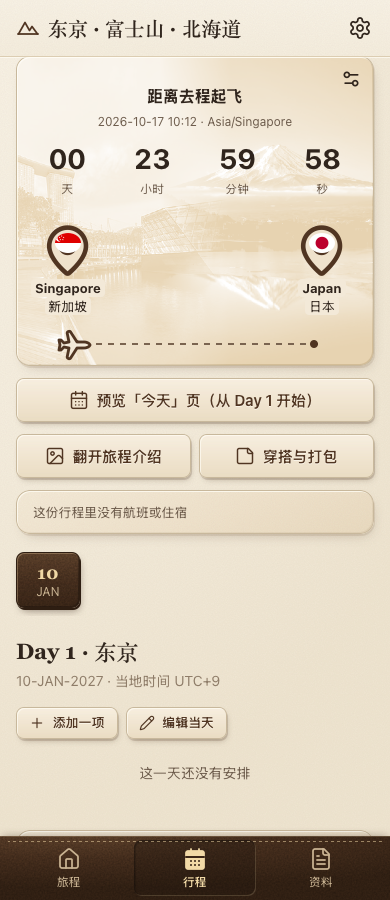
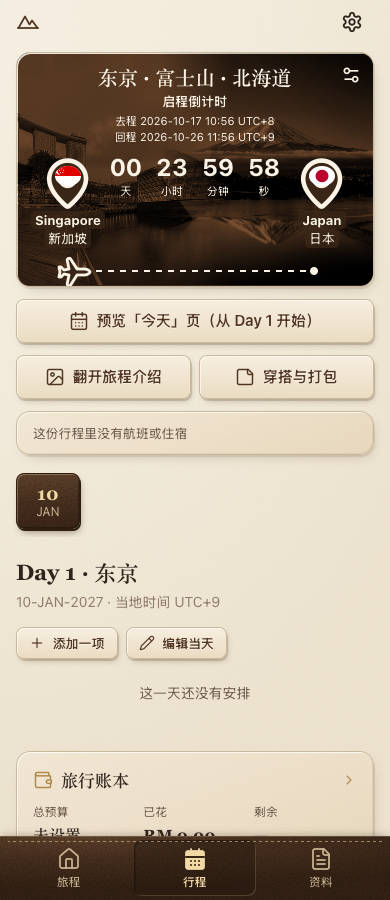
Use a compact dark flight card with trip hierarchy and sidebar controls

diff --git a/src/components/FlightCountdown.module.css b/src/components/FlightCountdown.module.css
@@ -1,38 +1,41 @@
 .module { margin: 0 0 var(--space-2); width: 100%; min-width: 0; }
-.card { position: relative; isolation: isolate; min-height: 310px; overflow: hidden; border-radius: var(--radius-md); border: 1px solid var(--color-border); background: var(--color-surface-subtle); box-shadow: var(--shadow-card); color: var(--color-text); }
+.card { position: relative; isolation: isolate; min-height: 232.5px; overflow: hidden; border-radius: var(--radius-md); border: 1px solid var(--color-border); background: var(--color-leather-dark); box-shadow: var(--shadow-card); color: var(--color-on-photo); }
 .scenery { position: absolute; inset: 0; z-index: -1; pointer-events: none; filter: grayscale(1) contrast(1.2); opacity: 1; mix-blend-mode: overlay; }
 .leftImage, .rightImage { position: absolute; top: 0; bottom: 0; width: 60%; overflow: hidden; }
 .leftImage { left: 0; z-index: 1; -webkit-mask-image: linear-gradient(to right, black 66.666667%, transparent); mask-image: linear-gradient(to right, black 66.666667%, transparent); }
 .rightImage { right: 0; }
 .landmark { width: 100%; height: 100%; object-fit: cover; opacity: 1; }
-.information { position: relative; margin: 0 auto; padding: 28px 12px 122px; text-align: center; width: 100%; background: transparent; }
-.heading { font-size: var(--fs-section); font-weight: 700; margin: 0 24px 6px; }
-.date { font-size: var(--fs-caption); color: var(--color-text-2); margin: 0 12px 12px; overflow-wrap: anywhere; }
-.numbers { display: grid; grid-template-columns: repeat(4, 1fr); max-width: 390px; margin: 0 auto; gap: 8px; }
+.information { position: relative; margin: 0 auto; padding: 12px 12px 40px; min-height: 232.5px; text-align: center; width: 100%; background: transparent; }
+.tripTitle { font-family: var(--font-serif); font-size: var(--fs-title); font-weight: 700; line-height: 1.2; margin: 0 28px 4px; overflow-wrap: anywhere; }
+.heading { font-size: var(--fs-small); font-weight: 600; line-height: 1.3; margin: 0 24px 4px; }
+.date { display: flex; flex-direction: column; justify-content: center; gap: 2px; font-size: 11px; font-weight: 400; line-height: 1.25; color: var(--color-on-photo); margin: 0 0 10px; }
+.date > span { white-space: nowrap; }.date small { font-size: inherit; }.date .dateSeparator { display: none; }
+.emptyDate { font-size: var(--fs-caption); margin: 8px 0; color: var(--color-on-photo); }
+.numbers { display: grid; grid-template-columns: repeat(4, minmax(0, 1fr)); max-width: max(130px, calc(100% - 152px)); margin: 0 auto; gap: 4px; }
 .numbers > div { display: flex; flex-direction: column; }
-.numbers strong { font-size: clamp(28px, 5vw, 48px); line-height: 1.15; font-variant-numeric: tabular-nums; font-weight: 700; }
-.numbers span { font-size: var(--fs-caption); margin-top: 6px; color: var(--color-text-2); }
-.pin { position: absolute; bottom: 46px; display: flex; flex-direction: column; align-items: center; min-width: 92px; min-height: 80px; padding: 4px; border: 0; background: transparent; color: var(--color-text); cursor: pointer; font: inherit; border-radius: var(--radius-sm); }
-.pin strong, .pin > span:last-child { background: var(--color-surface-subtle); padding: 0 4px; border-radius: 4px; font-size: var(--fs-small); }
-.pinIcon { position: relative; height: 55.2px; color: var(--color-primary); }
+.numbers strong { font-size: clamp(22px, 6.2vw, 30px); line-height: 1.1; font-variant-numeric: tabular-nums; font-weight: 700; }
+.numbers span { font-size: 11px; margin-top: 3px; color: var(--color-on-photo); }
+.pin { position: absolute; bottom: 34px; display: flex; flex-direction: column; align-items: center; min-width: 92px; min-height: 80px; padding: 4px; border: 0; background: transparent; color: var(--color-on-photo); cursor: pointer; font: inherit; border-radius: var(--radius-sm); }
+.pin strong, .pin > span:last-child { background: color-mix(in srgb, var(--color-leather-dark) 70%, transparent); padding: 0 4px; border-radius: 4px; font-size: var(--fs-small); }
+.pinIcon { position: relative; height: 55.2px; color: var(--color-on-photo); }
 .pinIcon img { position: absolute; top: 9.6px; left: 14.4px; width: 26.4px; height: 20.4px; border-radius: 50%; object-fit: cover; }
 .origin { left: 5px; }.destination { right: 5px; }
-.route { position: absolute; left: 55px; right: 55px; z-index: 3; pointer-events: none; bottom: 20px; border-top: 2px dashed var(--color-icon); height: 1px; }
-.route::before, .route::after { content: ''; position: absolute; top: -5px; width: 8px; height: 8px; border-radius: 50%; background: var(--color-primary); }
+.route { position: absolute; left: 55px; right: 55px; z-index: 3; pointer-events: none; bottom: 14px; border-top: 2px dashed var(--color-on-photo); height: 1px; }
+.route::before, .route::after { content: ''; position: absolute; top: -5px; width: 8px; height: 8px; border-radius: 50%; background: var(--color-on-photo); }
 .route::before { left: 0; }.route::after { right: 0; }
-.aircraft { position: absolute; left: 0; bottom: 0; width: 100%; height: 34px; color: var(--color-primary); pointer-events: none; }
-.aircraft svg { display: block; overflow: visible; transform: translate(-50%, 17px) rotate(45deg); fill: var(--color-surface-subtle); }
+.aircraft { position: absolute; left: 0; bottom: 0; width: 100%; height: 34px; color: var(--color-on-photo); pointer-events: none; }
+.aircraft svg { display: block; overflow: visible; transform: translate(-50%, 17px) rotate(45deg); fill: var(--color-leather-dark); }
 .trail { position: absolute; top: -2px; height: 2px; width: 100%; background: var(--color-accent); transform-origin: left; transform: scaleX(0); }
 .flying .aircraft { animation: flight 4.6s linear both; }
 .flying .trail { animation: trail 4.6s linear both; }
 .arrived .aircraft { transform: translateX(100%); opacity: 1; }.arrived .trail { transform: scaleX(1); }
 @keyframes flight { from { transform: translate(0, 0); } 40% { transform: translate(40%, -12px); } to { transform: translate(100%, 0); } }
 @keyframes trail { to { transform: scaleX(1); } }
-.edit { position: absolute; z-index: 2; right: 0; top: 0; width: 44px; height: 44px; display: grid; place-items: center; border: 0; border-radius: var(--radius-sm); background: transparent; color: var(--color-text); cursor: pointer; }
-.edit:hover, .pin:hover { background: var(--color-primary-soft); }
+.edit { position: absolute; z-index: 2; right: 0; top: 0; width: 44px; height: 44px; display: grid; place-items: center; border: 0; border-radius: var(--radius-sm); background: transparent; color: var(--color-on-photo); cursor: pointer; }
+.edit:hover, .pin:hover { background: color-mix(in srgb, var(--color-on-photo) 12%, transparent); }
 .edit:focus-visible, .pin:focus-visible, .countryGrid button:focus-visible { outline: 2px solid var(--color-primary); outline-offset: -2px; }
 .notice { font-size: var(--fs-caption); color: var(--color-text-2); min-height: 0; margin: 4px 0 0; }.notice:empty { display: none; }
-.transitionNote { margin-top: 24px; font-size: var(--fs-small); }
+.transitionNote { margin-top: 8px; font-size: var(--fs-small); }
 .form { display: flex; flex-direction: column; gap: 14px; color: var(--color-text); }
 .form p { font-size: var(--fs-small); color: var(--color-text-2); }
 .form label { display: flex; flex-direction: column; gap: 6px; font-size: var(--fs-body); }
@@ -42,8 +45,11 @@
 .countryGrid button { display: flex; gap: 10px; align-items: center; min-height: 56px; padding: 10px; color: var(--color-text); background: var(--color-surface-subtle); border: 1px solid var(--color-border); border-radius: var(--radius-sm); cursor: pointer; text-align: left; }
 .countryGrid img { width: 30px; height: 20px; object-fit: cover; }.countryGrid small { display: block; }.countryGrid button[aria-pressed=true] { background: var(--color-primary-soft); }.form .error { color: var(--color-warning-ink); }
 @media (min-width: 768px) {
-  .card { min-height: 230px; }.information { width: 60%; min-height: 230px; padding: 24px 12px 46px; background: transparent; }
-  .leftImage, .rightImage { width: 60%; }.pin { bottom: 50px; }.origin { left: 20px; }.destination { right: 20px; }.route { left: 70px; right: 70px; bottom: 24px; }.numbers strong { font-size: 46px; }
+  .card { min-height: 172.5px; }.information { width: 68%; min-height: 172.5px; padding: 10px 12px 28px; }
+  .tripTitle { font-size: 22px; }.heading { font-size: 14px; margin-bottom: 4px; }
+  .date { flex-direction: row; flex-wrap: wrap; gap: 2px 6px; font-size: 12px; margin-bottom: 6px; }.date .dateSeparator { display: inline; }
+  .numbers { max-width: 350px; gap: 8px; }.numbers strong { font-size: 38px; }
+  .pin { bottom: 32px; }.origin { left: 20px; }.destination { right: 20px; }.route { left: 70px; right: 70px; bottom: 14px; }
 }
 @media (prefers-reduced-motion: reduce) { .flying .aircraft, .flying .trail { animation: none; }.flying .aircraft { transform: translateX(100%); } }
 
@@ -53,8 +59,20 @@
 .settingsMeta { display: flex; flex-wrap: wrap; gap: 12px; font-size: var(--fs-caption); color: var(--color-text-2); }
 .photos { display: grid; grid-template-columns: repeat(2, minmax(0, 1fr)); gap: 12px; }
 .photoSlot { min-width: 0; display: flex; flex-direction: column; gap: 8px; }
-.photoPreview { height: 90px; overflow: hidden; isolation: isolate; border-radius: var(--radius-sm); background: var(--color-surface-subtle); }
+.photoPreview { height: 90px; overflow: hidden; isolation: isolate; border-radius: var(--radius-sm); background: var(--color-leather-dark); }
 .photoPreview img { width: 100%; height: 100%; object-fit: cover; filter: grayscale(1) contrast(1.2); mix-blend-mode: overlay; }
 .form .upload { position: relative; min-height: 44px; display: grid; place-items: center; padding: 8px; border: 1px solid var(--color-border); border-radius: var(--radius-sm); cursor: pointer; background: var(--color-surface-subtle); text-align: center; }
 .upload input { position: absolute; inset: 0; opacity: 0; cursor: pointer; }
 .upload:focus-within { outline: 2px solid var(--color-primary); outline-offset: 2px; }
+
+.tripControls { display: flex; align-items: center; justify-content: space-between; gap: 8px; min-height: 40px; }
+.tripIdentity { display: flex; align-items: center; gap: 8px; min-width: 0; }.tripIdentity strong { display: none; }
+.tripSettings { min-width: 44px; height: 44px; display: grid; place-items: center; border-radius: var(--radius-sm); color: var(--color-text); }
+.tripSettings:focus-visible { outline: 2px solid currentColor; outline-offset: -2px; }
+@media (min-width: 1024px) {
+  .tripControls { align-items: flex-start; }.tripIdentity { align-items: flex-start; --color-primary: var(--color-on-leather-hi); color: var(--color-on-leather); }
+  .tripIdentity strong { display: block; font-size: var(--fs-small); line-height: 1.5; padding-top: 8px; overflow-wrap: anywhere; }.tripIdentity > svg { flex-shrink: 0; margin-top: 8px; }
+  .tripSettings { color: var(--color-on-leather-hi); }
+}
+
+.information > button { color: var(--color-on-photo); background: var(--color-leather); border-color: var(--color-on-photo); }

diff --git a/src/components/FlightCountdown.tsx b/src/components/FlightCountdown.tsx
@@ -1,9 +1,11 @@
 import { memo, useEffect, useRef, useState } from 'react';
-import { Plane, MapPin, Settings2 } from 'lucide-react';
+import { Plane, MapPin, Settings, Settings2 } from 'lucide-react';
 import { useBlobUrl, type TripData } from '../hooks/data';
 import type { FlightCountdownSettings } from '../domain/types';
 import { asset, countries, countryOf, crossedDeparture, flightPhase, fromLocal, localTime, validFlightSettings, validZone } from '../domain/flightCountdown';
 import { remaining } from '../domain/countdown';
+import { utcOffsetLabel } from '../domain/format';
+import { Logo } from './Icon';
 import { flightBackgroundKey, setFlightBackground, setFlightCountdown } from '../db/repo';
 import { prepareFile, TooLargeError } from '../lib/files';
 import { Sheet } from './Layout';
@@ -17,7 +19,7 @@ const Scenery = memo(function Scenery({ origin, destination, left, right }: { or
   return <div className={s.scenery} aria-hidden="true">{photographs}</div>;
 });
 
-function Clock({ value, demo = false }: { value: FlightCountdownSettings; demo?: boolean }) {
+function Clock({ value, tripTitle, demo = false }: { value: FlightCountdownSettings; tripTitle: string; demo?: boolean }) {
   const [now, setNow] = useState(Date.now);
   const previous = useRef(now);
   const transition = useRef<number>();
@@ -41,13 +43,17 @@ function Clock({ value, demo = false }: { value: FlightCountdownSettings; demo?:
   }, [value.departureAt]);
   const phase = flightPhase(value, now, transition.current);
   const at = phase === 'before' ? value.departureAt : value.returnAt;
-  const tz = phase === 'before' ? value.departureTz : value.returnTz;
   const r = remaining(at, now)!;
-  const title = phase === 'before' ? '距离去程起飞' : phase === 'flying' ? `正在飞往${countryOf(value.destination)!.zh}` : phase === 'vacation' ? '开始玩乐！距离回程起飞' : '旅程已结束';
+  const title = phase === 'before' ? '启程倒计时' : phase === 'flying' ? `正在飞往${countryOf(value.destination)!.zh}` : phase === 'vacation' ? '返程倒计时' : '旅程已结束';
   return <>
     <div className={s.information} data-flight-phase={phase}>
-      <p className={s.heading} aria-live="polite">{demo ? `演示 · ${title}` : title}</p>
-      <p className={s.date}>{phase === 'flying' ? '即将开启你的旅程' : `${localTime(at, tz).replace('T', ' ')} · ${tz}`}</p>
+      <h1 className={s.tripTitle}>{tripTitle}</h1>
+      <h2 className={s.heading} aria-live="polite">{demo ? `演示 · ${title}` : title}</h2>
+      <h3 className={s.date}>
+        <span>去程 <time dateTime={new Date(value.departureAt).toISOString()}>{localTime(value.departureAt, value.departureTz).replace('T', ' ')}</time> <small>{utcOffsetLabel(value.departureTz, new Date(value.departureAt))}</small></span>
+        <span className={s.dateSeparator} aria-hidden="true">—</span>
+        <span>回程 <time dateTime={new Date(value.returnAt).toISOString()}>{localTime(value.returnAt, value.returnTz).replace('T', ' ')}</time> <small>{utcOffsetLabel(value.returnTz, new Date(value.returnAt))}</small></span>
+      </h3>
       {phase !== 'flying' && phase !== 'ended' && <div className={s.numbers} role="timer" aria-label={`${r.days}天 ${r.hours}小时 ${r.minutes}分钟 ${r.seconds}秒`}>
         {[[r.days, '天'], [r.hours, '小时'], [r.minutes, '分钟'], [r.seconds, '秒']].map(([v, unit]) => <div key={unit}><strong>{String(v).padStart(2, '0')}</strong><span>{unit}</span></div>)}
       </div>}
@@ -145,13 +151,13 @@ export default function FlightCountdown({ td, dateRange, offline }: { td: TripDa
     <div className={s.card}>
       <Scenery origin={origin} destination={destination} left={leftPhoto} right={rightPhoto} />
       <button className={s.edit} aria-label="设置航班时间" onClick={openSettings}><Settings2 size={20} /></button>
-      {demo || value ? <Clock key={JSON.stringify(demo ?? value)} value={(demo ?? value)!} demo={!!demo} /> : <div className={s.information}><p className={s.heading}>下一段旅程，从这里开始</p><p className={s.date}>设置去程与回程起飞时间，开启准确倒数</p><Button variant="outline" onClick={openSettings}>设置航班时间</Button></div>}
+      {demo || value ? <Clock key={JSON.stringify(demo ?? value)} value={(demo ?? value)!} tripTitle={td.trip.title} demo={!!demo} /> : <div className={s.information}><h1 className={s.tripTitle}>{td.trip.title}</h1><h2 className={s.heading}>启程倒计时</h2><p className={s.emptyDate}>设置去程与回程起飞时间，开启准确倒数</p><Button variant="outline" onClick={openSettings}>设置航班时间</Button></div>}
       {!demo && !value && <div className={s.route} aria-hidden="true"><span className={s.aircraft}><Plane size={34} /></span></div>}
       {(['origin','destination'] as const).map((side,i) => {
         const code = i ? destination : origin;
         const c = countryOf(code);
         return <button key={side} className={`${s.pin} ${i ? s.destination : s.origin}`} aria-label={i ? '修改目的地国家' : '修改出发国家'} onClick={() => {setDemo(undefined);setError('');setPick(side);}}>
-          <span className={s.pinIcon}><MapPin size={55.2} fill="var(--color-surface)" />{c && <img src={asset(code,'flag')} alt="" />}</span>
+          <span className={s.pinIcon}><MapPin size={55.2} fill="var(--color-leather-dark)" />{c && <img src={asset(code,'flag')} alt="" />}</span>
           <strong>{c?.en ?? (i ? '目的地' : '出发地')}</strong><span>{c?.zh ?? '选择国家'}</span>
         </button>;
       })}
@@ -195,4 +201,12 @@ export default function FlightCountdown({ td, dateRange, offline }: { td: TripDa
       </form>
     </Sheet>
   </section>;
+}
+
+/** Trip controls are relocated into the desktop sidebar; the title lives in the flight card. */
+export function FlightTripHeader({ title, onSettings }: { title: string; onSettings: () => void }) {
+  return <div className={s.tripControls}>
+    <div className={s.tripIdentity}><Logo /><strong>{title}</strong></div>
+    <button type="button" className={s.tripSettings} aria-label="旅程设置" onClick={onSettings}><Settings size={22} /></button>
+  </div>;
 }

diff --git a/src/components/Layout.tsx b/src/components/Layout.tsx
@@ -10,6 +10,7 @@ export type TabKey = 'trips' | 'itinerary' | 'docs';
 
 interface ScreenProps {
   header?: ReactNode;
+  sidebarHeader?: ReactNode;
   tab?: TabKey;
   bottom?: ReactNode; // ActionBar 或底部按钮区
   bottomStyle?: 'action' | 'plain';
@@ -18,13 +19,14 @@ interface ScreenProps {
 }
 
 /** 页面骨架：页头 + 内容 + 可选的底部操作栏 + 同一套响应式导航 */
-export function Screen({ header, tab, bottom, bottomStyle = 'action', full, children }: ScreenProps) {
+export function Screen({ header, sidebarHeader, tab, bottom, bottomStyle = 'action', full, children }: ScreenProps) {
   const pad = tab ? (bottom ? s.withTabBottom : s.withTab) : bottom ? s.withBottom : '';
   return (
     <div className={`${s.screen} ${tab ? s.withSidebar : ''}`}>
       <div className={s.contentColumn}>
       {header}
-      <main className={`${s.main} ${full ? s.full : ''} ${pad}`}>{children}</main>
+      {sidebarHeader && <div className={s.mobileSidebarHeader}>{sidebarHeader}</div>}
+      <main className={`${s.main} ${sidebarHeader ? s.mainWithSidebarHeader : ''} ${full ? s.full : ''} ${pad}`}>{children}</main>
       {bottom && (
         <div
           className={`${s.fixedCol} ${s.shellBottom} ${tab ? s.bottomWithTab : ''} ${bottomStyle === 'action' ? s.actionBar : s.plainBottom}`}
@@ -33,7 +35,7 @@ export function Screen({ header, tab, bottom, bottomStyle = 'action', full, chil
         </div>
       )}
       </div>
-      {tab && <TabBar active={tab} />}
+      {tab && <TabBar active={tab} header={sidebarHeader} />}
     </div>
   );
 }
@@ -114,10 +116,11 @@ const TABS: { key: TabKey; label: string; to: string; icon: 'Home' | 'CalendarDa
   { key: 'docs', label: '资料', to: '/docs', icon: 'FileText' },
 ];
 
-export function TabBar({ active }: { active: TabKey }) {
+export function TabBar({ active, header }: { active: TabKey; header?: ReactNode }) {
   return (
     <nav className={`${s.fixedCol} ${s.tabbar}`} aria-label="主导航">
       <span className={s.navLogo} aria-hidden="true"><Logo /></span>
+      {header && <div className={s.sidebarHeader}>{header}</div>}
       {TABS.map((t) => {
         const on = t.key === active;
         return (

diff --git a/src/features/ItineraryPage.tsx b/src/features/ItineraryPage.tsx
@@ -2,7 +2,7 @@ import { useEffect, useMemo, useState } from 'react';
 import { Navigate, useNavigate, useParams } from 'react-router-dom';
 import p from './Page.module.css';
 import { TripThemeScope } from '../components/TripTheme';
-import { Screen, RootHeader, Sheet } from '../components/Layout';
+import { Screen, Sheet } from '../components/Layout';
 import { Field, FormActions, TextInput } from '../components/Form';
 import { Button, EmptyLine, EmptyState } from '../components/Basics';
 import { DayHeading, DayTiles, Timeline, TimelineDivider, TimelineRow } from '../components/Itinerary';
@@ -18,7 +18,7 @@ import { currentItemId, defaultDay, docsForItem, itemIcon, itemSubtitle, ledgerS
 import { openExternal } from '../links/openLink';
 import { setLastTrip } from '../db/repo';
 import PhaseCard from '../components/PhaseCard';
-import FlightCountdown from '../components/FlightCountdown';
+import FlightCountdown, { FlightTripHeader } from '../components/FlightCountdown';
 import { pickToday } from '../domain/today';
 
 /** 01 每日行程（行程 Tab 的首页） */
@@ -86,7 +86,7 @@ export default function ItineraryPage() {
     <TripThemeScope theme={td.trip.theme} />
     <Screen
       tab="itinerary"
-      header={<RootHeader title={trip.title} icon="Settings" iconLabel="旅程设置" onIcon={() => nav(`/trip/${trip.id}/settings`)} />}
+      sidebarHeader={<FlightTripHeader title={trip.title} onSettings={() => nav(`/trip/${trip.id}/settings`)} />}
     >
       <FlightCountdown key={trip.id} td={td} dateRange={fmtDateRange(trip.startDate, trip.endDate)} offline={ready.allGreen} />
       {(() => {

diff --git a/src/components/Layout.module.css b/src/components/Layout.module.css
@@ -170,3 +170,13 @@
 
 @keyframes fade { from { opacity: 0; } to { opacity: 1; } }
 @keyframes up { from { transform: translate(-50%, 100%); } to { transform: translate(-50%, 0); } }
+
+/* Optional trip controls are used only by the flight-card itinerary view. */
+.sidebarHeader { display: none; }
+.mobileSidebarHeader { padding: var(--safe-top) var(--page-x) 0; }
+.mainWithSidebarHeader { padding-top: var(--space-2); }
+@media (min-width: 1024px) {
+  .mobileSidebarHeader { display: none; }
+  .sidebarHeader { display: block; margin-bottom: var(--space-3); padding-bottom: var(--space-3); border-bottom: 1px solid var(--color-stitch); }
+  .mainWithSidebarHeader { padding-top: var(--space-4); }
+}

diff --git a/qa/flight-countdown/photos.py b/qa/flight-countdown/photos.py
@@ -11,16 +11,22 @@ with sync_playwright() as pw:
   if name=='webkit':
    # WebKit private contexts cannot store Blob records; use an isolated normal profile.
    profile=tempfile.mkdtemp(prefix='flight-webkit-')
-   ctx=pw.webkit.launch_persistent_context(profile,viewport={'width':1280,'height':900})
+   ctx=pw.webkit.launch_persistent_context(profile,viewport={'width':1280,'height':900},timezone_id='America/Los_Angeles')
    browser=None
   else:
-   browser=getattr(pw,name).launch();ctx=browser.new_context(viewport={'width':1280,'height':900})
+   browser=getattr(pw,name).launch();ctx=browser.new_context(viewport={'width':1280,'height':900},timezone_id='America/Los_Angeles')
   page=ctx.new_page();page.goto(base)
   if production:
-   page.evaluate('''async()=>{await navigator.serviceWorker.ready;await new Promise((resolve,reject)=>{const req=indexedDB.open('travel-rundown');req.onsuccess=()=>{const db=req.result;const tx=db.transaction(['trips','days'],'readwrite');tx.objectStore('trips').put({id:'photo-qa',title:'东京 · 富士山 · 北海道',startDate:'2027-01-10',endDate:'2027-01-19',homeTz:'Asia/Singapore',destination:'日本',theme:'summer',translate:{app:'google-translate',from:'auto',to:'zh-CN'},sourceMd:'',importedAt:'',updatedAt:'',flightCountdown:{origin:'SG',destination:'JP',departureTz:'Asia/Singapore',returnTz:'Asia/Tokyo',departureAt:Date.now()+86400000,returnAt:Date.now()+864000000}});tx.objectStore('days').put({id:'photo-day',tripId:'photo-qa',index:1,date:'2027-01-10',tz:'Asia/Tokyo',city:'东京'});tx.oncomplete=()=>{db.close();resolve()};tx.onerror=reject;};req.onerror=reject;});}''')
+   page.evaluate('''async()=>{await Promise.race([navigator.serviceWorker.ready,new Promise((_,reject)=>setTimeout(()=>reject(new Error('Service worker was not ready within 20 seconds')),20000))]);await new Promise((resolve,reject)=>{const req=indexedDB.open('travel-rundown');req.onsuccess=()=>{const db=req.result;const tx=db.transaction(['trips','days'],'readwrite');tx.objectStore('trips').put({id:'photo-qa',title:'东京 · 富士山 · 北海道',startDate:'2027-01-10',endDate:'2027-01-19',homeTz:'Asia/Singapore',destination:'日本',theme:'summer',translate:{app:'google-translate',from:'auto',to:'zh-CN'},sourceMd:'',importedAt:'',updatedAt:'',flightCountdown:{origin:'SG',destination:'JP',departureTz:'Asia/Singapore',returnTz:'Asia/Tokyo',departureAt:Date.now()+86400000,returnAt:Date.now()+864000000}});tx.objectStore('days').put({id:'photo-day',tripId:'photo-qa',index:1,date:'2027-01-10',tz:'Asia/Tokyo',city:'东京'});tx.oncomplete=()=>{db.close();resolve()};tx.onerror=reject;};req.onerror=reject;});}''')
   else:
    page.evaluate('''async()=>{const {db}=await import('/src/db/schema.ts');await db.trips.put({id:'photo-qa',title:'东京 · 富士山 · 北海道',startDate:'2027-01-10',endDate:'2027-01-19',homeTz:'Asia/Singapore',destination:'日本',theme:'summer',translate:{app:'google-translate',from:'auto',to:'zh-CN'},sourceMd:'',importedAt:'',updatedAt:'',flightCountdown:{origin:'SG',destination:'JP',departureTz:'Asia/Singapore',returnTz:'Asia/Tokyo',departureAt:Date.now()+86400000,returnAt:Date.now()+864000000}});await db.days.put({id:'photo-day',tripId:'photo-qa',index:1,date:'2027-01-10',tz:'Asia/Tokyo',city:'东京'});}''')
   page.goto(base+'/itinerary/photo-qa');card=page.locator('section[aria-label="航班倒计时"]');expect(card).to_be_visible();scenery=card.locator('div[aria-hidden="true"]').first
+  expect(card.get_by_role('heading',level=1)).to_contain_text('东京')
+  expect(card.get_by_role('heading',level=2)).to_have_text('启程倒计时')
+  expect(card.locator('h3 time')).to_have_count(2)
+  assert 'UTC+8' in card.locator('h3').inner_text() and 'UTC+9' in card.locator('h3').inner_text()
+  assert page.locator('nav[aria-label="主导航"]').get_by_role('button',name='旅程设置').is_visible()
+  assert card.locator(':scope > div').first.bounding_box()['height']<=176
   expect(scenery.locator('img')).to_have_count(2);assert scenery.locator('img').evaluate_all('(xs)=>xs.every(x=>x.src.endsWith("-flag.svg"))')
   assert card.locator(':scope > *').count()==1
   page.screenshot(path=str(out/f'{name}-flag-default.png'))
@@ -39,6 +45,9 @@ with sync_playwright() as pw:
   assert scenery.locator('img').evaluate_all('(xs)=>xs.every(x=>x.complete&&x.naturalWidth>0)')
   for width in [1280,768,390,320]:
    page.set_viewport_size({'width':width,'height':900});card.scroll_into_view_if_needed();page.wait_for_timeout(150);assert page.evaluate('document.documentElement.scrollWidth<=innerWidth')
+   h1=card.get_by_role('heading',level=1).bounding_box();h2=card.get_by_role('heading',level=2).bounding_box();h3=card.get_by_role('heading',level=3).bounding_box()
+   assert h1['y']+h1['height']<=h2['y'] and h2['y']+h2['height']<=h3['y']
+   assert card.locator(':scope > div').first.bounding_box()['height']<=235 if width<768 else card.locator(':scope > div').first.bounding_box()['height']<=205
    page.screenshot(path=str(out/f'{name}-custom-{width}.png'))
   page.get_by_role('button',name='修改目的地国家').click();page.get_by_role('button',name='泰国 Thailand').click();expect(page.get_by_role('dialog')).to_have_count(0)
   expect(scenery.locator('img[src^="blob:"]')).to_have_count(2)
@@ -55,7 +64,9 @@ with sync_playwright() as pw:
    expect(page.get_by_role('status')).to_contain_text('照片已保存');page.keyboard.press('Escape');page.reload()
    expect(scenery.locator('img[src^="blob:"]')).to_have_count(2)
    assert scenery.locator('img').evaluate_all('(xs)=>xs.every(x=>x.complete&&x.naturalWidth>0)')
-  results[name]={'offline_reload_and_upload':production,'defaults':'flags','uploads':'two sides survive reload','style':'fixed grayscale overlay','reset':'one side only','invalid_photo':'rejected','country_change':'custom photo retained','widths':[1280,768,390,320]}
+  ctx.set_offline(False);page.goto(base+'/trips');expect(page.get_by_role('heading',name='我的旅程',exact=True)).to_be_visible()
+  assert page.locator('nav[aria-label="主导航"]').get_by_role('button',name='旅程设置').count()==0
+  results[name]={'title_hierarchy':True,'both_flight_timezones':True,'sidebar_trip_settings':True,'reduced_height':True,'other_page_header_preserved':True,'offline_reload_and_upload':production,'defaults':'flags','uploads':'two sides survive reload','style':'fixed grayscale overlay','reset':'one side only','invalid_photo':'rejected','country_change':'custom photo retained','widths':[1280,768,390,320]}
   print(name,results[name],flush=True)
   ctx.close()
   if browser:browser.close()

diff --git a/docs/flight-countdown/README.md b/docs/flight-countdown/README.md
@@ -1,8 +1,12 @@
 # 行程页顶部航班卡
 
-仅开发用户授权的航班卡模块。卡片位于行程页原 HeroCover 位置，StoryPage 与 main 一致。默认国旗或用户自己的左右照片，各占卡片宽度 60%，中间 20% 交叉融合。背景固定为黑白 Overlay、opacity 1、contrast 1.2，无模糊和可调滤镜。Pin 内彩色小国旗保留，Pin 图标为 55.2px。
+仅开发用户授权的航班卡模块。卡片位于行程页原 HeroCover 位置，StoryPage 与 main 一致。默认国旗或用户自己的左右照片，各占卡片宽度 60%，中间 20% 交叉融合。卡片使用当前四季主题的深色色板（color-leather-dark），白色系文字；背景固定为黑白 Overlay、opacity 1、contrast 1.2，无模糊和可调滤镜。Pin 内彩色小国旗保留，Pin 图标为 55.2px。
 
 ## 界面与行为
+
+- 标题层级依次为 H1 旅程名称、H2「启程倒计时」（返程阶段为「返程倒计时」）、H3 去程及回程的起飞日期时间；两段各标注该时刻的准确 UTC 偏移。
+- 标准高度手机 232.5px / 平板电脑 172.5px，相比原 310px / 230px 缩短 25%；超长标题和放大字体可撑开以保留信息。
+- 桌面原顶部旅程标题和设置移入左面板，手机保留紧凑的设置栏。Screen / TabBar 仅新增可选 sidebarHeader 插槽，只有 ItineraryPage 使用，其他页面原 header 和导航默认行为不变。
 
 - 每阶段仅显示一张卡。原卡片下的日期、离线提示、保存说明、来源和预览入口全部收进右上角设置，不再占据行程页空间。
 - 设置中可独立上传、替换左右照片，或恢复该侧当前国家的国旗；切换国家保留自选照片。上传会使用现有图片压缩流程，校验实际可解码性，拦截损坏文件和超过限制的照片。
